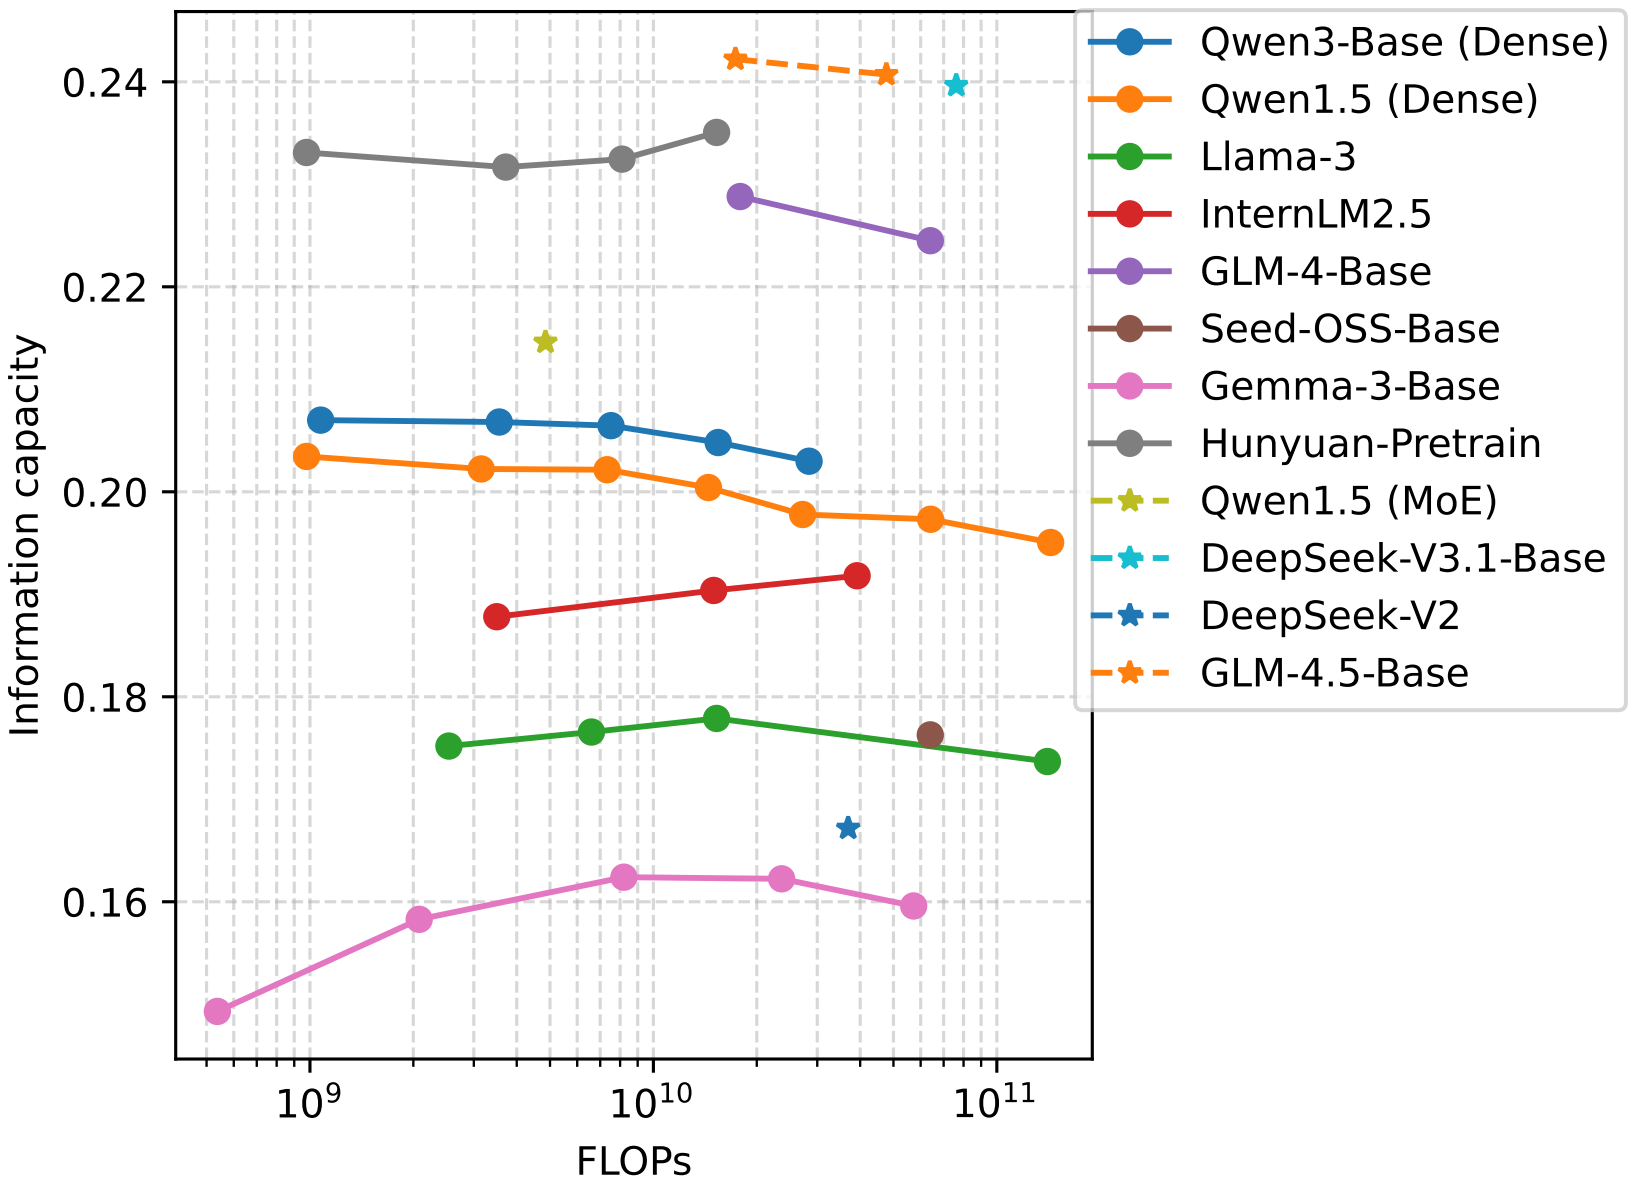
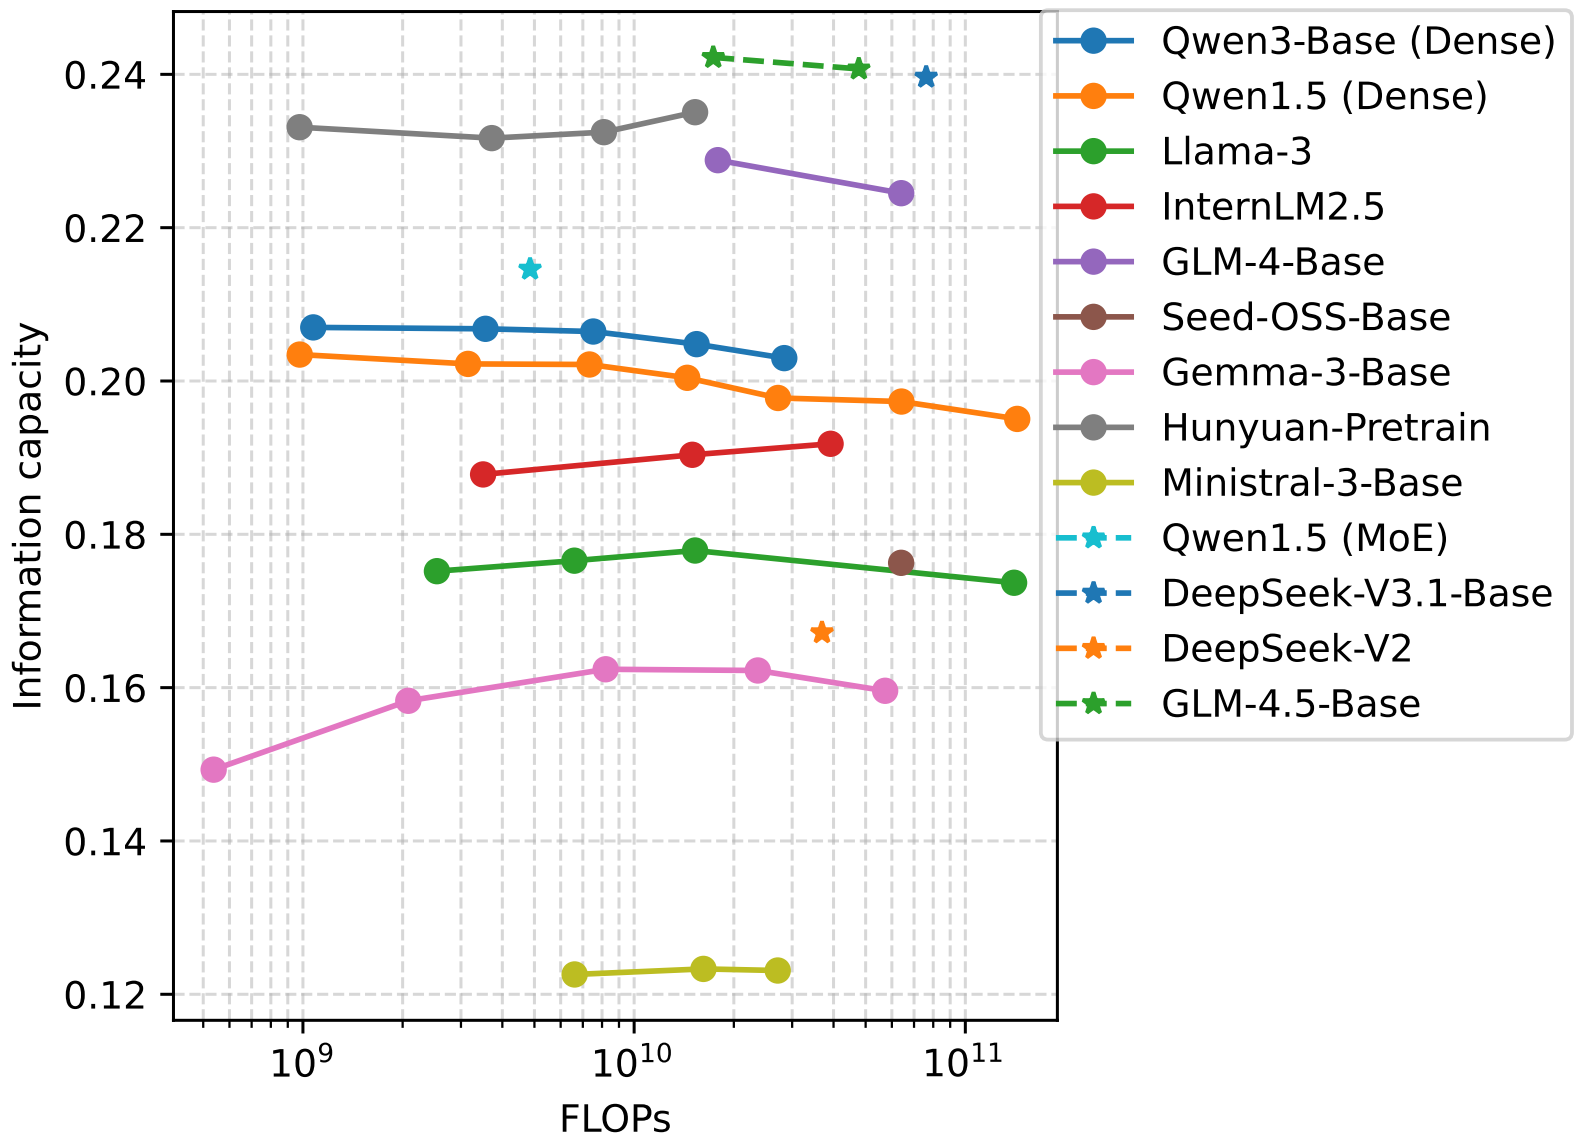
add vllm script and Ministral-3 results

Changed region(s): [[0.0, 0.0, 0.9887, 1.0], [0.9887, 0.5838, 1.0, 0.6453], [0.4943, 0.676, 0.5252, 0.7068]]

diff --git a/likelihood_vllm.py b/likelihood_vllm.py
@@ -1,0 +1,137 @@
+import json
+import torch
+import numpy as np
+import math
+from typing import Iterator, List, Dict
+from itertools import islice, chain
+from transformers import AutoTokenizer
+from vllm import LLM, SamplingParams
+from tqdm import tqdm
+
+def batched(iterable, n):
+    """Batch data into lists of length n. The last batch may be shorter."""
+    it = iter(iterable)
+    while True:
+        batch = list(islice(it, n))
+        if not batch:
+            return
+        yield batch
+
+def calculate_negative_log_likelihood(
+    model_path: str,
+    jsonl_path: str,
+    target_token_length: int,
+    batch_size: int = 1,
+    tensor_parallel_size: int = 1,
+    chunk_size: int = 1000, # Number of samples to hold in RAM before sending to vLLM
+    num_samples: int = 200000,
+    device: str = "cuda"
+) -> torch.Tensor:
+    """
+    Calculates NLL using streaming data loading and vLLM.
+    Input is read lazily from disk, preventing OOM on the inputs.
+    """
+    
+    # 1. Initialize Tokenizer and vLLM
+    # We use the HF tokenizer to handle truncation explicitly before vLLM
+    print(f"Initializing model: {model_path}")
+    tokenizer = AutoTokenizer.from_pretrained(model_path, trust_remote_code=True)
+    
+    llm = LLM(
+        model=model_path,
+        trust_remote_code=True,
+        tensor_parallel_size=tensor_parallel_size,
+        dtype="auto",
+        enforce_eager=False,
+        gpu_memory_utilization=0.8,
+        max_model_len=target_token_length + 1,
+    )
+
+    # prompt_logprobs=1 returns the logprob of the token that was actually matched/generated
+    sampling_params = SamplingParams(max_tokens=1, prompt_logprobs=1, detokenize=False)
+    
+    # constant for log conversion
+    ln_2 = np.log(2)
+
+    # 2. Define the data generator
+    def data_generator() -> Iterator[List[int]]:
+        with open(jsonl_path, "r", encoding="utf-8") as f:
+            for line in f:
+                data = json.loads(line)
+                # Tokenize and Truncate immediately to save RAM
+                token_ids = tokenizer.encode(
+                    data["text"],
+                    truncation=True,
+                    max_length=target_token_length,
+                    add_special_tokens=True
+                )
+                yield token_ids
+
+    # 3. Process in Chunks
+    # If the output tensor is too large for CPU RAM, you should write results to disk 
+    # inside this loop instead of appending to 'all_results'.
+    all_results = []
+    
+    # Create the iterator
+    token_iter = data_generator()
+    
+    print(f"Starting streaming inference with chunk size {chunk_size}...")
+    
+    # Loop over batches of the dataset
+    for batch_idx, batch_token_ids in enumerate(tqdm(batched(token_iter, chunk_size), total=math.ceil(num_samples / chunk_size) if num_samples is not None else None, 
+                                   desc=f"Calculating Entropy for {model_path.split('/')[-1]}")):
+        
+        # Run vLLM on this chunk
+        # vLLM handles internal batching for GPU throughput, but this loop manages CPU RAM.
+        request_outputs = llm.generate(
+            prompt_token_ids=batch_token_ids,
+            sampling_params=sampling_params,
+            use_tqdm=True
+        )
+
+        # Process results for this chunk
+        chunk_entropies = []
+        
+        for i, output in enumerate(request_outputs):
+            seq_logprobs = output.prompt_logprobs
+            token_ids = batch_token_ids[i]
+            
+            # Extract logprobs for prediction (tokens 1 to N)
+            # seq_logprobs[j] corresponds to the token at index j
+            current_nlls = []
+            
+            # We predict token[j] given token[0...j-1]
+            # prompt_logprobs list aligns with input tokens. 
+            # Entry 0 is None. Entry 1 is logprob of token 1 given token 0.
+            for j in range(1, len(seq_logprobs)):
+                token_at_j = token_ids[j]
+                step_logprobs = seq_logprobs[j]
+                
+                if step_logprobs is not None and token_at_j in step_logprobs:
+                    log_prob = step_logprobs[token_at_j].logprob
+                    # Convert ln to log2 and negate
+                    current_nlls.append(-(log_prob / ln_2))
+                else:
+                    current_nlls.append(float('nan'))
+
+            chunk_entropies.append(current_nlls)
+
+        # Convert chunk to tensor
+        # Create tensor filled with NaN
+        chunk_tensor = torch.full((len(chunk_entropies), target_token_length - 1), float('nan'))
+        
+        for k, nll_list in enumerate(chunk_entropies):
+            # Fill valid data
+            valid_len = min(len(nll_list), target_token_length - 1)
+            chunk_tensor[k, :valid_len] = torch.tensor(nll_list[:valid_len])
+            
+        all_results.append(chunk_tensor)
+        
+        # Optional: Explicit garbage collection if memory is extremely tight
+        del request_outputs, batch_token_ids
+        
+    # 4. Concatenate all chunks
+    if not all_results:
+        return torch.empty(0)
+        
+    return torch.cat(all_results, dim=0)

diff --git a/README.md b/README.md
@@ -19,7 +19,7 @@ Compared to existing metrics on LLM efficiency, a key difference of information 
 An effective tokenizer can represent a given text with fewer tokens, thus reducing both the input and output token counts.
 This reduction not only lowers computational costs and inference delay but also facilitates long-context memory and in-depth reasoning.
 Tokenizer efficiency exhibits growing significance in light of the exploding input length and the widespread usage of test-time scaling, but is often **neglected** in LLM evaluations.
-We assess the information capacity of 49 models across 5 heterogeneous datasets and find consistent evidence regarding the influences of tokenizer efficiency, pretraining data, and the mixture-of-experts (MoE) architecture.
+We assess the information capacity of 52 models across 5 heterogeneous datasets and find consistent evidence regarding the influences of tokenizer efficiency, pretraining data, and the mixture-of-experts (MoE) architecture.
 
 ## Method
 
